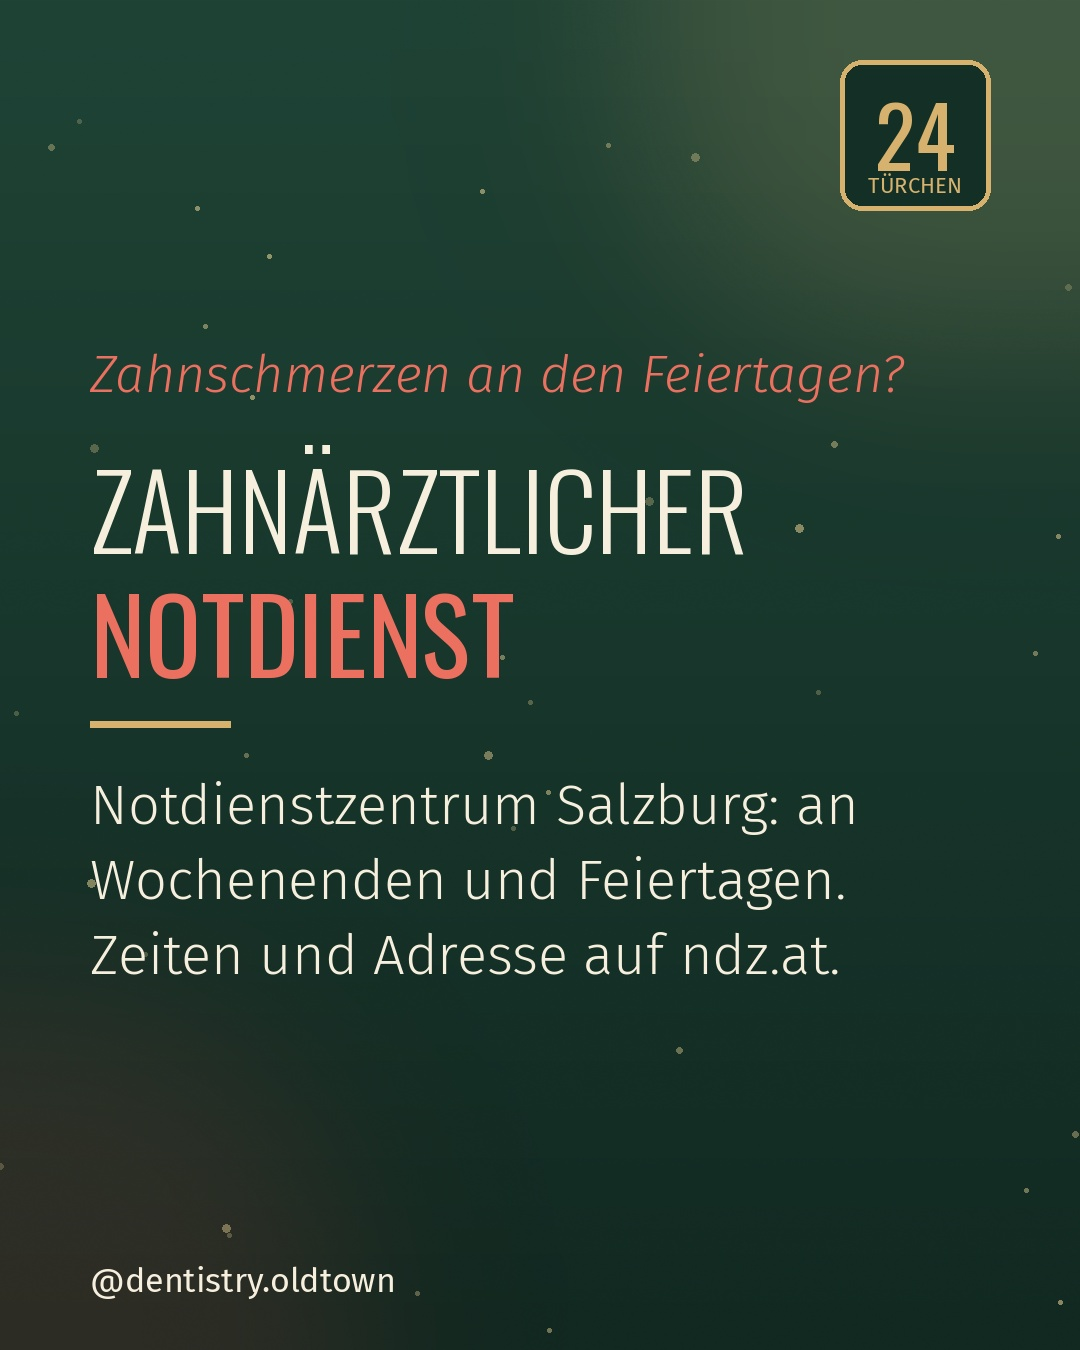
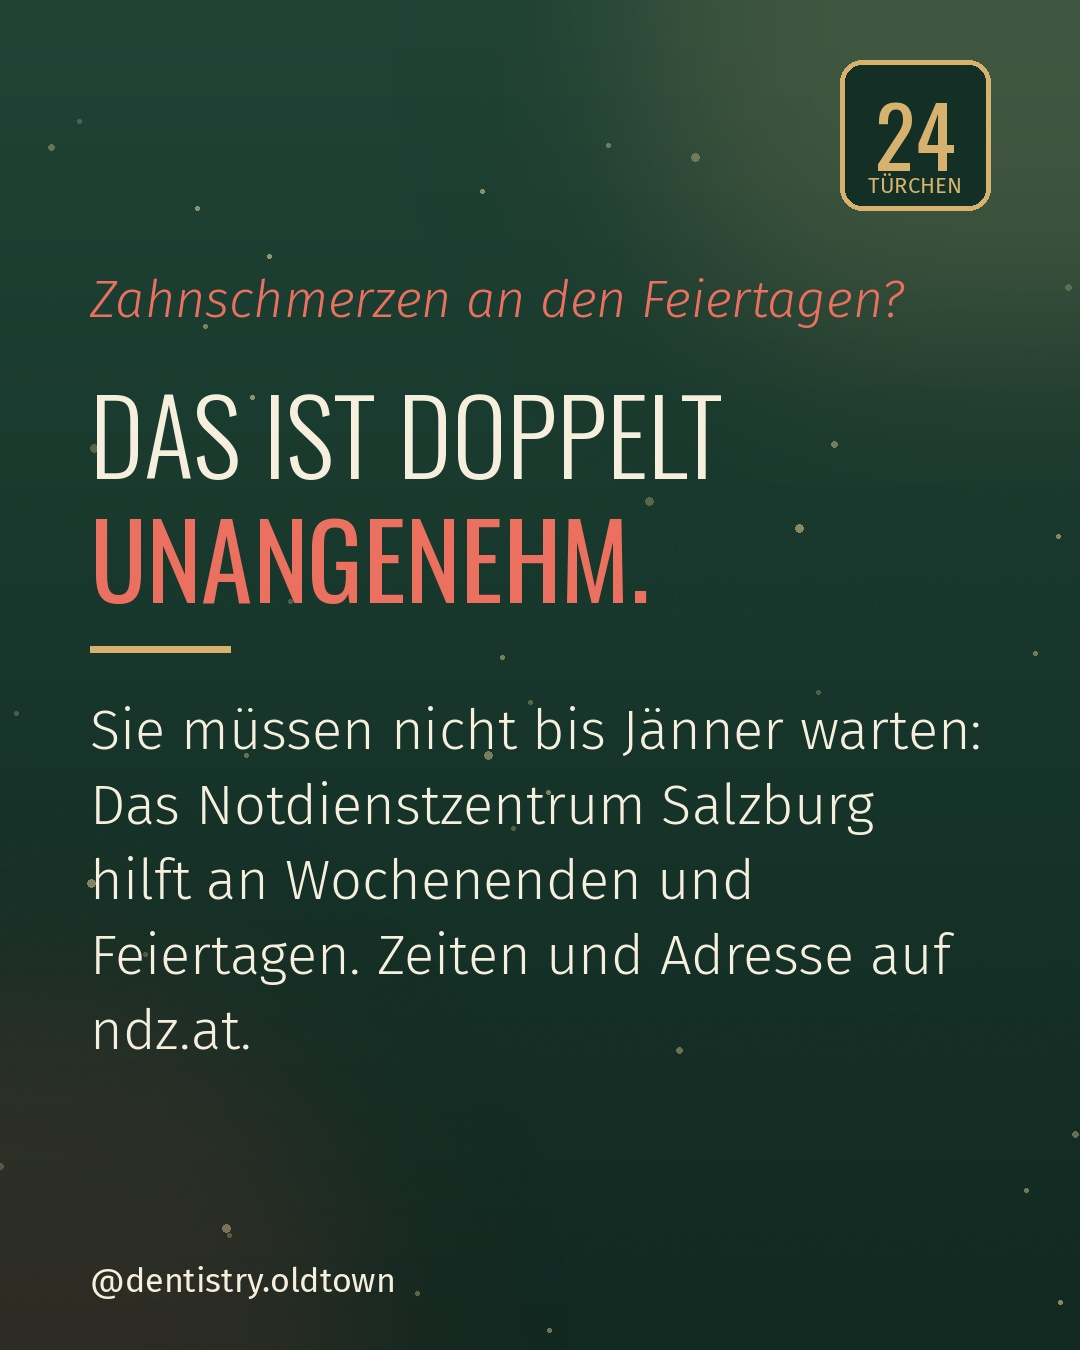
Türchen 24: Notdienst-Folie mit Empathie
Claude-Session: https://claude.ai/code/session_012SPZoo3349FxBHtRPxeMWn

Changed region(s): [[0.0611, 0.1867, 0.9167, 0.7467], [0.0917, 0.7467, 0.2139, 0.7778]]

diff --git a/AGENT.md b/AGENT.md
@@ -81,7 +81,7 @@ Idea from Neda (inspired by an orthodontist's "kinda chic to …" carousel – a
 - **Always positive (Neda: "keine Adventspielverderber")**: never forbid or scold. Every door says what people CAN do and ends on a light, warm note ("Genießen Sie …, mit diesem kleinen Trick bleibt es zahnfreundlich."). No "verzichten Sie", no warnings as headline; the hook may be curious, never alarming.
 - Same content rules as always (Sie, calm, no promises, WR-ÖZÄK, only services offered, no nutrition counselling, no bleaching promo). Every fact must be checked against a reputable source (open the page); drop or replace a door if a fact cannot be verified. Caption DE → EN → BKS + end block; first line = hook; hashtag #adventskalender + #zahnärztinaltstadt.
 - Doors (mix approved by Neda – food/drink only in a few, keep the mix):
-  1 Glühwein: Zucker, Säure & Wärme · 2 Kurios: Zahnschmelz härtestes Material, trotzdem verletzlich · 3 Quiz: Wie lange putzen Sie wirklich? · 4 Feiertagsstress & Zähneknirschen – Anzeichen · 5 Nüsse mit den Zähnen knacken? Lieber nicht · 6 Nikolaus-Special: Woher kommt die Zahnbürste? · 7 Mythos oder Wahrheit: Harte Zahnbürsten putzen besser? · 8 Zahnfleisch & Herz – was Studien zeigen · 9 Alkohol & trockener Mund – Wasser zwischendurch · 10 Hinter den Kulissen: So läuft eine Prophylaxe bei uns · 11 Kälte & empfindliche Zähne · 12 Zahnersatz in der Festzeit pflegen · 13 Kurios: 700+ Bakterienarten im Mund, die meisten Freunde · 14 Mythos: Zimt & Nelken gut für Zähne? · 15 Frauen 40+: warum sich das Zahnfleisch verändert · 16 Rauchen + Alkohol: doppelte Belastung fürs Zahnfleisch · 17 Quiz: Zahnseide oder Bürstchen? · 18 Füllung/Krone abgebrochen – was tun? · 19 Stress, Schlaf & Zahnfleisch · 20 Lebkuchen & Zuckerstangen: Kleben & Lutschen · 21 Zeitreise: Zahnpflege vor 200 Jahren · 22 Zahnpflege im Reisegepäck – Checkliste · 23 Nach dem Festessen: 3 Schritte · 24 (carousel, sample drafts/advent_24_muster/ – 5 slides: Frohe Weihnachten · Danke für Ihr Vertrauen 2026 · Pause 24.12.–10.01., ab Mo 11. Jänner wieder da (Neda confirmed: online booking via softdent stays open during the holiday) · Notdienst · Bis bald im neuen Jahr) Frohe Weihnachten & gutes neues Jahr + Praxisurlaub 24.12.2026–10.01.2027 (wieder da ab Mo 11.01.2027) + Notdienst: Neda's source is the Notdienstzentrum Salzburg, https://www.ndz.at (weekends/holidays; in Oct 2026 the site said 14:00–17:00, register in person, no phone booking, info line +43 662 870022). Re-open ndz.at when building and use the current hours; on the slide say "Notdienstzentrum Salzburg … ndz.at". Same for door 18.
+  1 Glühwein: Zucker, Säure & Wärme · 2 Kurios: Zahnschmelz härtestes Material, trotzdem verletzlich · 3 Quiz: Wie lange putzen Sie wirklich? · 4 Feiertagsstress & Zähneknirschen – Anzeichen · 5 Nüsse mit den Zähnen knacken? Lieber nicht · 6 Nikolaus-Special: Woher kommt die Zahnbürste? · 7 Mythos oder Wahrheit: Harte Zahnbürsten putzen besser? · 8 Zahnfleisch & Herz – was Studien zeigen · 9 Alkohol & trockener Mund – Wasser zwischendurch · 10 Hinter den Kulissen: So läuft eine Prophylaxe bei uns · 11 Kälte & empfindliche Zähne · 12 Zahnersatz in der Festzeit pflegen · 13 Kurios: 700+ Bakterienarten im Mund, die meisten Freunde · 14 Mythos: Zimt & Nelken gut für Zähne? · 15 Frauen 40+: warum sich das Zahnfleisch verändert · 16 Rauchen + Alkohol: doppelte Belastung fürs Zahnfleisch · 17 Quiz: Zahnseide oder Bürstchen? · 18 Füllung/Krone abgebrochen – was tun? · 19 Stress, Schlaf & Zahnfleisch · 20 Lebkuchen & Zuckerstangen: Kleben & Lutschen · 21 Zeitreise: Zahnpflege vor 200 Jahren · 22 Zahnpflege im Reisegepäck – Checkliste · 23 Nach dem Festessen: 3 Schritte · 24 (carousel, sample drafts/advent_24_muster/ – 5 slides: Frohe Weihnachten · Danke für Ihr Vertrauen 2026 · Pause 24.12.–10.01., ab Mo 11. Jänner wieder da (Neda confirmed: online booking via softdent stays open during the holiday) · Notdienst with empathy ("Das ist doppelt unangenehm. Sie müssen nicht bis Jänner warten: …") · Bis bald im neuen Jahr) Frohe Weihnachten & gutes neues Jahr + Praxisurlaub 24.12.2026–10.01.2027 (wieder da ab Mo 11.01.2027) + Notdienst: Neda's source is the Notdienstzentrum Salzburg, https://www.ndz.at (weekends/holidays; in Oct 2026 the site said 14:00–17:00, register in person, no phone booking, info line +43 662 870022). Re-open ndz.at when building and use the current hours; on the slide say "Notdienstzentrum Salzburg … ndz.at". Same for door 18.
 - Neda's photo (template/neda.jpg) may appear in hooks; no patients.
 - Timeline: Sun 15.11.2026 19:07 run – email Neda (BKS, short): reminder to put 5 Advent photos into the Drive folder "Insta Praxisfotos" by Sat 21.11. Mon 16.11.–Fri 20.11. 19:07 runs – build 5–6 doors per run (render, check stills, push), plus the New Year post (01.01.2027 11:00, short greeting, back on 11.01.). Sat 21.11. 19:07 – build „Ziemlich sympathisch“ Advent (if photos are there; otherwise tell Neda in the email). Sun 22.11.2026 19:07 – create ALL as Metricool DRAFTS (Türchen at 18:00 on 1.–24.12., Neujahr 01.01. 11:00, Sympathisch 27.11. 10:00) and send ONE approval email: subject "[Insta-Freigabe] Adventskalender 1–24 + Sympathisch 27.11. + Neujahr", list every door (date, format, title, media link, first caption line), plus a link to a contact-sheet image of all doors (render one overview JPG into drafts/advent_2026/ and push). One OK approves all of them (draft:false for every post in that email). Changes → fix only the doors mentioned, re-send.
 - Store each door in `posts/2026-12-<DD>_advent_<n>_<slug>/` with status.json like every post (email_thread_id = the one approval email).
